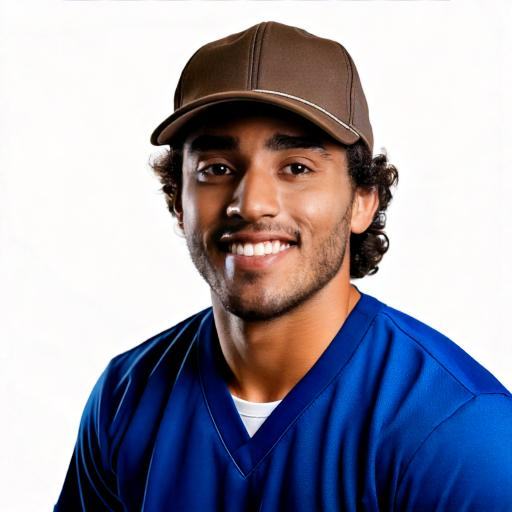
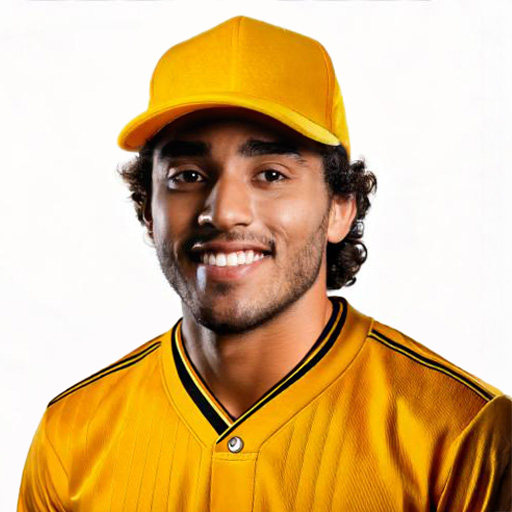
walker mendez replace

diff --git a/players.js b/players.js
@@ -15,7 +15,7 @@ const players = [
         bioLink: 'http://bratinstitute.com'},
     { no: 8, name: "Tatsunori Schmidt", pos: "UT", year: "Freshman", ht: "6'1\"", wt: "200 lbs", hometown: "Lexington, Mass.", school: "Minuteman Regional HS", bt: "L/L", image: "images/8 Tatsunori Schmidt.jpg",
         bioLink: 'http://bratinstitute.com'},
-    { no: 9, name: "Walker Mendez", pos: "INF", year: "Sophomore", ht: "6'3\"", wt: "205 lbs", hometown: "Wayne, N.J.", school: "Wayne Hills HS", bt: "L/R", image: "images/9 Walker Mendez.png",
+    { no: 9, name: "Walker Mendez", pos: "INF", year: "Sophomore", ht: "6'3\"", wt: "205 lbs", hometown: "Wayne, N.J.", school: "Wayne Hills HS", bt: "L/R", image: "images/9 Walker Mendez.jpg",
         bioLink: 'http://bratinstitute.com'},
     { no: 10, name: "Clyde Babee", pos: "RHP", year: "Freshman", ht: "5'11\"", wt: "0 lbs", hometown: "Houston, Texas", school: "Cy Ranch HS", bt: "R/R", image: "images/10 Clyde Babee.png",
         bioLink: 'http://bratinstitute.com'},
